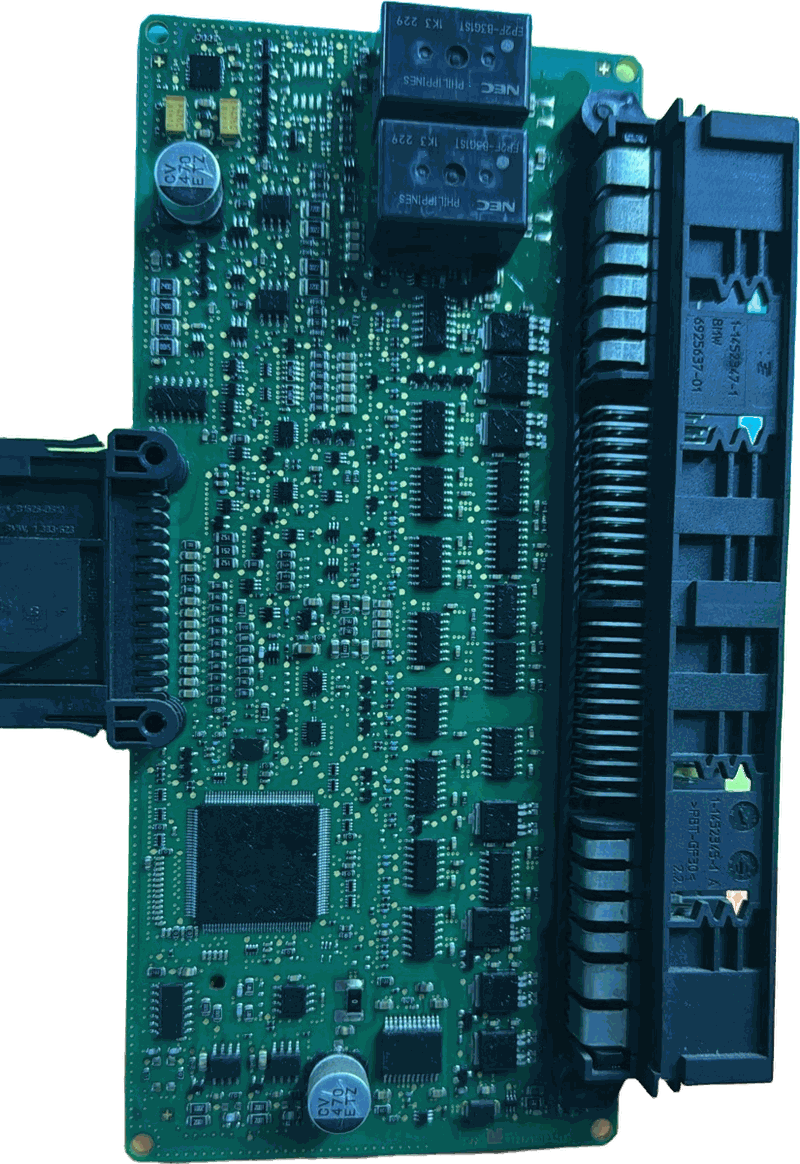
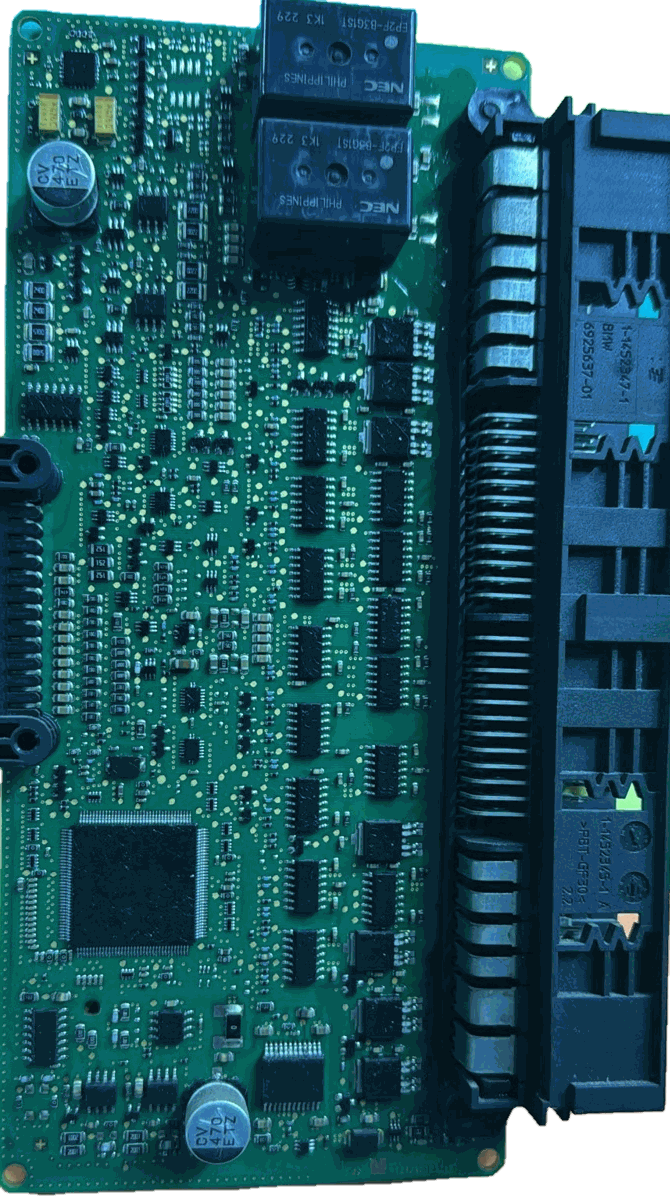
Fotoğraflara kaydırma animasyonu ekle, şeffaf kart kesimlerini düzelt
- Fotoğraf ve videolar kaydırınca küçük bir pencereden açılıp hafif
  yakınlaşmayla yerine oturuyor; şeffaf kartlar yükselerek ve hafif
  dönerek geliyor. 'Hareketi azalt' ayarında animasyonsuz.
- Sürücü kartları ve operatör paneli kartı perspektif düzeltmeli,
  düz kenarlı kesimle yeniden çıkarıldı (dalgalı kenar ve kopuk
  parçalar giderildi).
- ECU kartında konnektör delikleri dolduruldu, yarım kalan sol
  konnektör parçası kart kenarından temizlendi.

Claude-Session: https://claude.ai/code/session_01WKXf7C5PrXrh8BrdM1Bq77

diff --git a/index.html b/index.html
@@ -753,6 +753,15 @@ body{letter-spacing:-.011em}
 .lift{grid-template-columns:1fr!important}
 .lift .feat{grid-template-columns:repeat(3,1fr)}
 @media (max-width:860px){.lift .feat{grid-template-columns:1fr}}
+
+/* ===== Kaydırınca beliren fotoğraflar ===== */
+.pr{clip-path:inset(14% 10% 14% 10% round 12px);transform:translateY(40px) scale(1.06);opacity:0;transition:clip-path 1.25s cubic-bezier(.2,.75,.15,1),transform 1.25s cubic-bezier(.2,.75,.15,1),opacity .7s ease;will-change:clip-path,transform}
+.pr.seen{clip-path:inset(0 0 0 0 round 0);transform:none;opacity:1}
+.pr-cut{transform:translateY(60px) rotate(-3deg) scale(.94);opacity:0;transition:transform 1.3s cubic-bezier(.2,.75,.15,1),opacity .8s ease}
+.pr-cut.seen{transform:none;opacity:1}
+.pr-img img,.pr-img video{transform:scale(1.18);transition:transform 1.8s cubic-bezier(.2,.75,.15,1)}
+.pr-img.seen img,.pr-img.seen video{transform:scale(1)}
+@media (prefers-reduced-motion:reduce){.pr,.pr-cut,.pr-img img,.pr-img video{clip-path:none!important;transform:none!important;opacity:1!important;transition:none!important}}
 </style>
 </head>
 <body>
@@ -1010,7 +1019,7 @@ body{letter-spacing:-.011em}
         <h2>Onardığımız kart ve modüller.</h2>
         <p>Dokuma tezgâhlarındaki kontrol, güç ve sürücü kartlarında arıza tespiti, onarım ve fonksiyon testi. Listede yer almayan kart ve modüller için de değerlendirme yapılmaktadır.</p>
       </div>
-      <figure class="mods-photo cutout rv"><picture><source srcset="assets/foto/surucu-ici-kesik.webp" type="image/webp"><img src="assets/foto/surucu-ici-kesik.png" width="820" height="1190" alt="Kabini açılmış tezgâh sürücü ünitesi: kontrol, güç ve sürücü kartları" loading="lazy"></picture><figcaption>Kabini açılmış sürücü ünitesi: kontrol, güç ve sürücü kartları</figcaption></figure>
+      <figure class="mods-photo cutout rv"><picture><source srcset="assets/foto/surucu-ici-kesik.webp" type="image/webp"><img src="assets/foto/surucu-ici-kesik.png" width="620" height="1114" alt="Kabini açılmış tezgâh sürücü ünitesi: kontrol, güç ve sürücü kartları" loading="lazy"></picture><figcaption>Kabini açılmış sürücü ünitesi: kontrol, güç ve sürücü kartları</figcaption></figure>
       <div class="mods rv">
         <div class="mod"><b>MCB</b><small>Kart onarımı</small></div>
         <div class="mod"><b>MB</b><small>Kart onarımı</small></div>
@@ -1170,7 +1179,7 @@ body{letter-spacing:-.011em}
       </div>
       <div class="grid2 ab">
         <article class="card alt rv">
-          <div class="art cutout"><picture><source srcset="assets/foto/operator-karti-kesik.webp" type="image/webp"><img src="assets/foto/operator-karti-kesik.png" width="1000" height="788" alt="Endüstriyel kontrol kartı" loading="lazy"></picture></div>
+          <div class="art cutout"><picture><source srcset="assets/foto/operator-karti-kesik.webp" type="image/webp"><img src="assets/foto/operator-karti-kesik.png" width="866" height="660" alt="Endüstriyel kontrol kartı" loading="lazy"></picture></div>
           <div class="cb">
             <small>Endüstriyel otomasyon</small><h3>PLC ve sürücü tamiri</h3>
             <p>Üretim hattını durduran otomasyon elektroniğinde kart seviyesinde onarım.</p>
@@ -1178,7 +1187,7 @@ body{letter-spacing:-.011em}
           </div>
         </article>
         <article class="card alt rv">
-          <div class="art cutout"><picture><source srcset="assets/foto/ecu-kesik.webp" type="image/webp"><img src="assets/foto/ecu-kesik.png" width="800" height="1164" alt="Otomotiv kontrol ünitesi kartı" loading="lazy"></picture></div>
+          <div class="art cutout"><picture><source srcset="assets/foto/ecu-kesik.webp" type="image/webp"><img src="assets/foto/ecu-kesik.png" width="670" height="1196" alt="Otomotiv kontrol ünitesi kartı" loading="lazy"></picture></div>
           <div class="cb">
             <small>Otomotiv elektroniği</small><h3>Otomotiv ECU onarımı</h3>
             <p>Araç elektronik kontrol ünitelerinde donanım arızalarının tespiti ve onarımı.</p>
@@ -1404,6 +1413,20 @@ if ("IntersectionObserver" in window) {
   }), { rootMargin: "120px 0px" });
   document.querySelectorAll(".art, .mq-wrap").forEach(el => vis.observe(el));
 }
+
+// Fotoğraflar kaydırınca animasyonla gelsin
+(() => {
+  const groups = [
+    [".ag-img, .loom-vid .lv, .auto figure > picture, .saha-arac > picture, .card-art, .split-v, .wide-img", "pr pr-img"],
+    [".cutout img, .own-img img, .pc .ag-img img", "pr-cut"],
+    [".tile .art, .tile-cut", "pr-img"]
+  ];
+  const els = [];
+  groups.forEach(([sel, cls]) => document.querySelectorAll(sel).forEach(el => { if (!el.dataset.pr) { el.dataset.pr = 1; cls.split(" ").forEach(c => el.classList.add(c)); els.push(el); } }));
+  if (reduce || !("IntersectionObserver" in window)) { els.forEach(el => el.classList.add("seen")); return; }
+  const io = new IntersectionObserver(es => es.forEach(en => { if (en.isIntersecting) { en.target.classList.add("seen"); io.unobserve(en.target); } }), { threshold: 0.12, rootMargin: "0px 0px -6% 0px" });
+  els.forEach(el => io.observe(el));
+})();
 
 // Saha videoları: yalnızca ekrandayken oynat; "hareketi azalt" açıksa kapak görüntüsünde kal
 const vids = document.querySelectorAll("video[data-auto]");

diff --git a/kurumsal-kimlik.html b/kurumsal-kimlik.html
@@ -329,9 +329,9 @@ section{border-top:2px solid var(--rule)}
       <p class="intro">Saha görüntülerinde gerçek tesis ve ekipman videoları kullanılır: sessiz, kısa döngülü ve sakin çekimler. Makine üreticilerinin logoları kadraj dışında bırakılır ya da kırpılır; kişilerin yüzleri ve müşteri tesislerini tanıtan levhalar gösterilmez.</p>
       <div class="ill">
         <figure><img src="assets/foto/ldec-kesik.png" width="1100" height="675" alt="Arka planı silinmiş sürücü ünitesi fotoğrafı" loading="lazy"></figure>
-        <figure><img src="assets/foto/surucu-ici-kesik.png" width="820" height="1190" alt="Arka planı silinmiş sürücü ünitesi kartları" loading="lazy" style="width:62%"></figure>
-        <figure><img src="assets/foto/operator-karti-kesik.png" width="1000" height="788" alt="Arka planı silinmiş operatör paneli kartı" loading="lazy"></figure>
-        <figure><img src="assets/foto/ecu-kesik.png" width="800" height="1164" alt="Arka planı silinmiş otomotiv kontrol kartı" loading="lazy" style="width:62%"></figure>
+        <figure><img src="assets/foto/surucu-ici-kesik.png" width="620" height="1114" alt="Arka planı silinmiş sürücü ünitesi kartları" loading="lazy" style="width:62%"></figure>
+        <figure><img src="assets/foto/operator-karti-kesik.png" width="866" height="660" alt="Arka planı silinmiş operatör paneli kartı" loading="lazy"></figure>
+        <figure><img src="assets/foto/ecu-kesik.png" width="670" height="1196" alt="Arka planı silinmiş otomotiv kontrol kartı" loading="lazy" style="width:62%"></figure>
       </div>
       <h3 style="margin-top:40px;font-size:21px">İkonlar</h3>
       <p class="intro" style="font-size:17px">İnce çizgili (1,8 px), yuvarlak uçlu, tek renkli çizgi ikonlar.</p>
